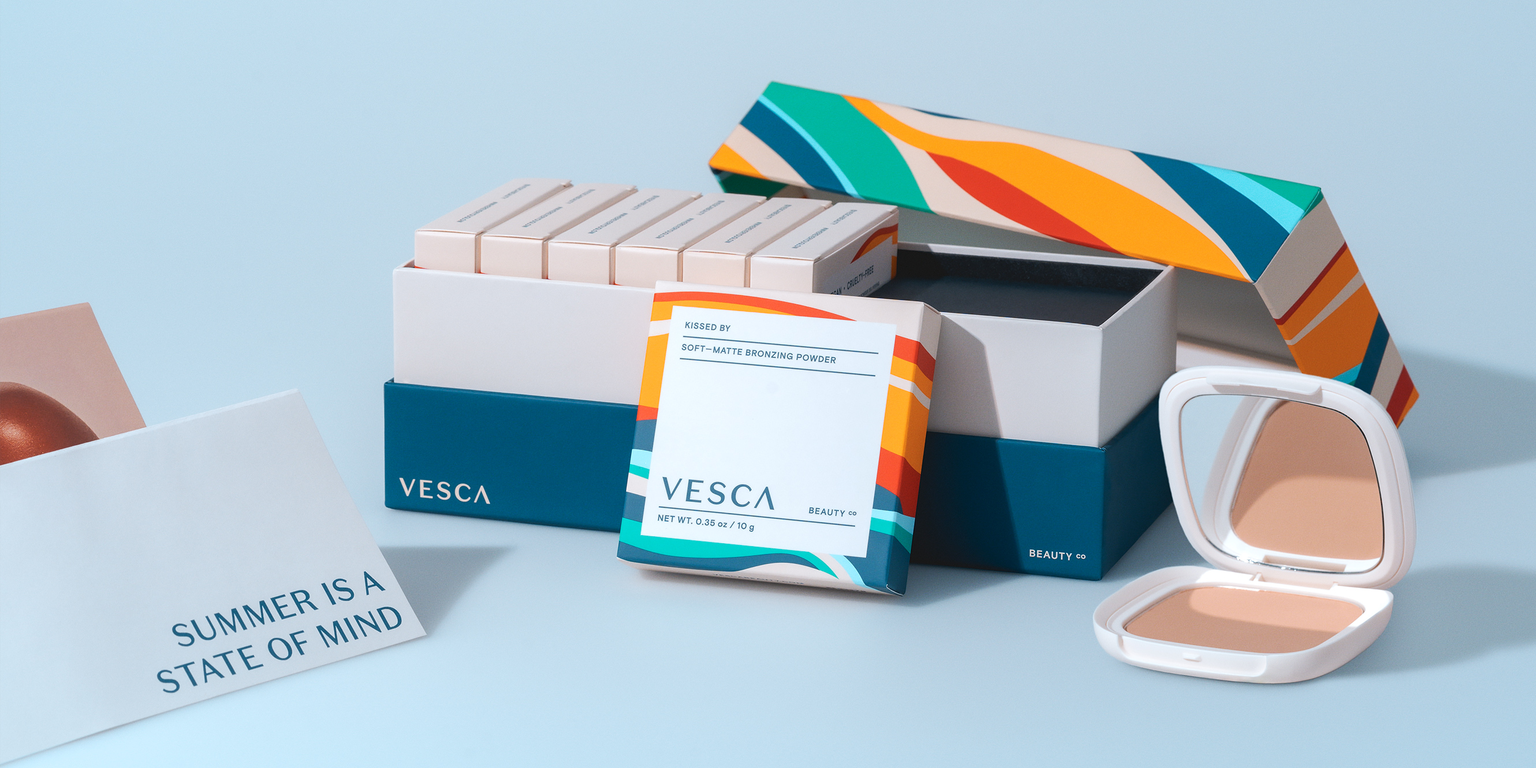
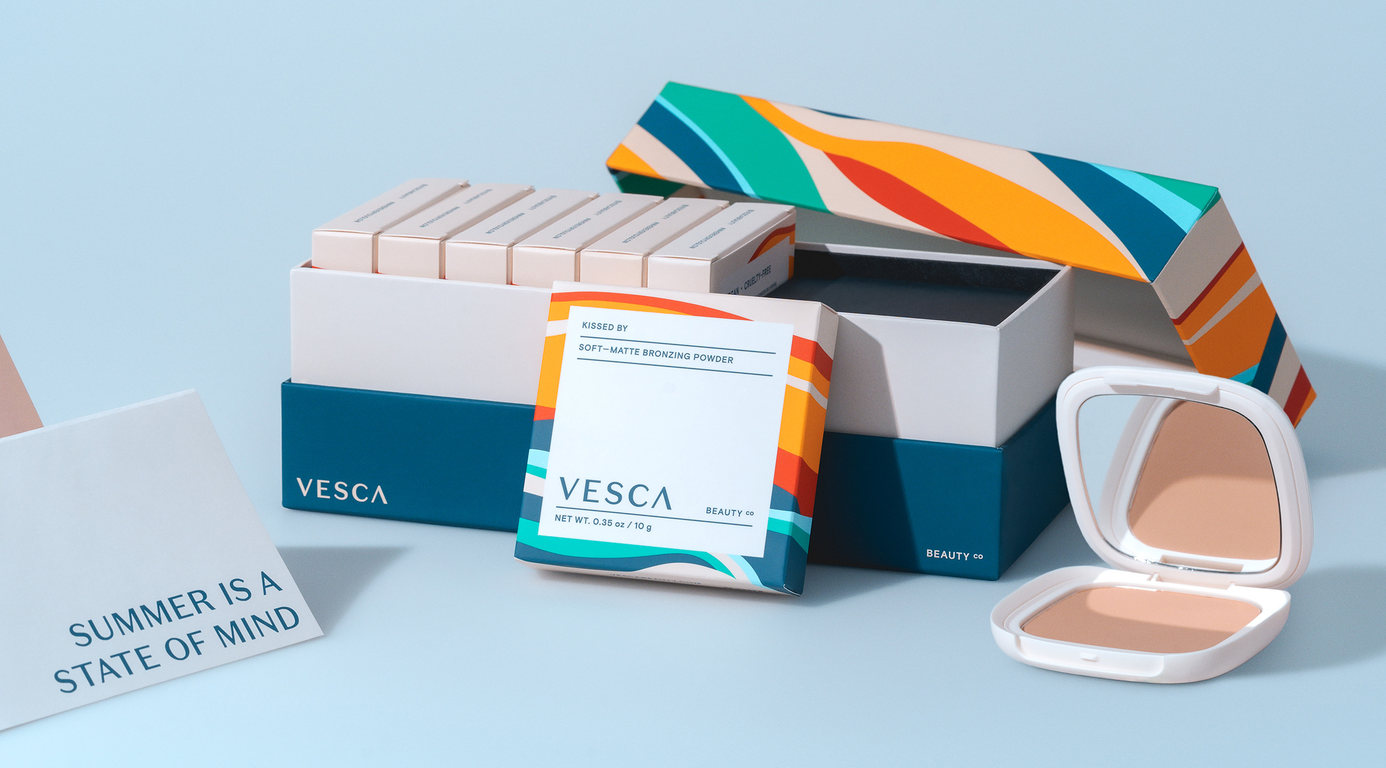
Update imagery

diff --git a/src/index.html b/src/index.html
@@ -33,7 +33,7 @@ description: Design systems designer combining systems thinking, visual craft, a
     <a class="workitem" href="/work/leia">
         <div class="flex-container">
             <div class="featured-image column-2">
-                {% responsiveImage "/assets/leia/leia_wallpaper_1.jpg", "Leia art direction", "fillImage" %}
+                {% responsiveImage "/assets/leia/leia_wallpaper_gradients.jpg", "Leia art direction", "fillImage" %}
             </div>
             <div class="featured-card theme-leia">
                 <div class="title">
@@ -56,7 +56,7 @@ description: Design systems designer combining systems thinking, visual craft, a
     <a class="workitem" href="/work/apple">
         <div class="flex-container">
             <div class="featured-image column-2">
-                {% responsiveImage "/assets/apple/Apple_4.png", "Apple.com Design System architecture and component patterns", "fillImage" %}
+                {% responsiveImage "/assets/apple/apple_component.png", "apple.com UI component screenshot", "fillImage" %}
             </div>
             <div class="featured-card theme-apple">
                 <div class="title">
@@ -78,7 +78,7 @@ description: Design systems designer combining systems thinking, visual craft, a
     <a class="workitem" href="/work/google-beam">
         <div class="flex-container">
             <div class="featured-image column-2">
-                {% responsiveImage "/assets/google/Google_Beam-cropped.jpg", "Google Beam video call interface showing natural scale 3D rendering with spatial UI components", "fillImage" %}
+                {% responsiveImage "/assets/google/google_beam_overview.jpg", "Google Beam", "fillImage" %}
             </div>
             <div class="featured-card theme-beam">
                 <div class="title">
@@ -105,7 +105,7 @@ description: Design systems designer combining systems thinking, visual craft, a
         <p class="large">
             Before specializing in design systems, I spent years building multi-media frameworks for
             brand identity and motion design, giving me a unique perspective on what makes scalable
-            design infrastructure actually work.
+            design infrastructure effective.
         </p>
     </div>
 </section>
@@ -119,7 +119,7 @@ description: Design systems designer combining systems thinking, visual craft, a
         <a class="workitem" href="/work/motion">
             <div class="flex-container">
                 <div class="featured-image">
-                    <img class="fillImage" src="/assets/motion/ScotiabankArena_Logo_1.gif" alt="">
+                    <img class="fillImage" src="/assets/motion/scotiabank_arena_logo_animation.gif" alt="Scotiabank Arena motion logo" />
                 </div>
                 <div class="featured-card theme-motion">
                     <div class="title">
@@ -138,7 +138,7 @@ description: Design systems designer combining systems thinking, visual craft, a
         <a class="workitem" href="/work/branding">
             <div class="flex-container">
                 <div class="featured-image">
-                    {% responsiveImage "/assets/brand/vesca/vesca_packaging_2.jpg", "", "fillImage" %}
+                    {% responsiveImage "/assets/brand/vesca/vesca_packaging_retail_2.jpg", "Vesca packaging", "fillImage" %}
                 </div>
                 <div class="featured-card theme-brand">
                     <div class="title">

diff --git a/src/work/apple.html b/src/work/apple.html
@@ -26,7 +26,7 @@ description: Senior design systems designer architecting scalable infrastructure
 
     <div class="flex-container">
         <div class="featured-image column-2">
-            <img class="fillImage" src="/assets/apple/apple_interface_placeholder.png" alt="Apple.com interface" />
+            <img class="fillImage" src="/assets/apple/apple_interface_placeholder.png" alt="UI component on apple.com" />
         </div>
         <div class="featured-card bottomText theme-apple">
             <h4 class="uppercase" style="margin-top: 2rem;">My Role</h4>
@@ -55,10 +55,10 @@ description: Senior design systems designer architecting scalable infrastructure
         </div>
         <div class="flex-container">
             <div>
-                <img class="fillImage" src="/assets/apple/apple_component_system.png" alt="Component system example" />
+                <img class="fillImage" src="/assets/apple/apple_component_system.png" alt="UI component on apple.com" />
             </div>
             <div>
-                <img class="fillImage" src="/assets/apple/apple_component_variations.png" alt="Component variations" />
+                <img class="fillImage" src="/assets/apple/apple_component_variations.png" alt="UI component on apple.com" />
             </div>
         </div>
     </div>
@@ -70,7 +70,7 @@ description: Senior design systems designer architecting scalable infrastructure
         </div>
         <div class="flex-container">
             <div>
-                <img class="fillImage" src="/assets/apple/apple_interface_placeholder.png" alt="Technical prototype" />
+                <img class="fillImage" src="/assets/apple/apple_interface_placeholder.png" alt="UI component on apple.com" />
             </div>
         </div>
     </div>
@@ -89,7 +89,7 @@ description: Senior design systems designer architecting scalable infrastructure
 
     <div class="flex-container">
         <div class="featured-image column-2">
-            <img class="fillImage" src="/assets/apple/apple_interface_scale.png" alt="Apple.com at scale" />
+            <img class="fillImage" src="/assets/apple/apple_interface_scale.png" alt="UI component on apple.com" />
         </div>
         <div class="featured-card bottomText theme-apple">
             <h5 class="uppercase">Impact</h5>

diff --git a/src/styles/settings/color.scss b/src/styles/settings/color.scss
@@ -60,6 +60,7 @@ $darken-amt: 15%;
 //*******************************************
 //	PROJECT COLORS
 //*******************************************
+// text color , background color
 .theme-leia {
     @include button-hover-swap(#AACCE3, #0b09aa);
 }
@@ -81,7 +82,7 @@ $darken-amt: 15%;
 }
 
 .theme-apple {
-    @include button-hover-swap(#f5f5f7, #1d1d1f);
+    @include button-hover-swap(#eaeaec, #1d1d1f);
 }
 
 // Workaround for worklist button hover
